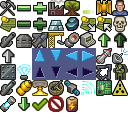
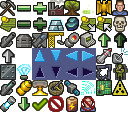
#46 Mechion population is also limited to ground size.
Added also new icon for full planet population.

diff --git a/src/main/java/org/openRealmOfStars/gui/icons/Icons.java b/src/main/java/org/openRealmOfStars/gui/icons/Icons.java
@@ -78,6 +78,10 @@ public final class Icons {
    */
   public static final String ICON_PEOPLE = "People";
   /**
+   * No More People icon
+   */
+  public static final String ICON_NO_MORE_PEOPLE = "NoMorePeople";
+  /**
    * Death aka skull icon
    */
   public static final String ICON_DEATH = "Death";
@@ -426,6 +430,8 @@ public final class Icons {
     icon = new Icon16x16(image, 3, 6, ICON_DELETE);
     addIcon(icon);
     icon = new Icon16x16(image, 4, 6, ICON_BATTERY);
+    addIcon(icon);
+    icon = new Icon16x16(image, 5, 6, ICON_NO_MORE_PEOPLE);
     addIcon(icon);
   }
 

diff --git a/src/main/java/org/openRealmOfStars/game/States/PlanetView.java b/src/main/java/org/openRealmOfStars/game/States/PlanetView.java
@@ -454,6 +454,11 @@ public class PlanetView extends BlackPanel {
       }
       peopleGrowth.setLeftIcon(Icons.getIconByName(Icons.ICON_PEOPLE));
     }
+    if (planet.getTotalPopulation() >= planet.getGroundSize()) {
+      peopleGrowth.setLeftIcon(Icons.getIconByName(Icons.ICON_NO_MORE_PEOPLE));
+      peopleGrowth.setToolTipText(
+          "Planet population is at maximum!");
+    }
     farmProd.setText(": " + planet.getTotalProduction(Planet.PRODUCTION_FOOD));
     mineProd.setText(": " + planet.getTotalProduction(Planet.PRODUCTION_METAL));
     prodProd.setText(

diff --git a/src/main/java/org/openRealmOfStars/starMap/planet/Planet.java b/src/main/java/org/openRealmOfStars/starMap/planet/Planet.java
@@ -898,7 +898,8 @@ public class Planet {
       result.add(tmp);
     }
     if (planetOwnerInfo != null
-        && planetOwnerInfo.getRace() == SpaceRace.MECHIONS) {
+        && planetOwnerInfo.getRace() == SpaceRace.MECHIONS
+        && getTotalPopulation() < getGroundSize()) {
       tmp2 = ConstructionFactory
           .createByName(ConstructionFactory.MECHION_CITIZEN);
       if (tmp2 != null && !exceedRadiation()) {
